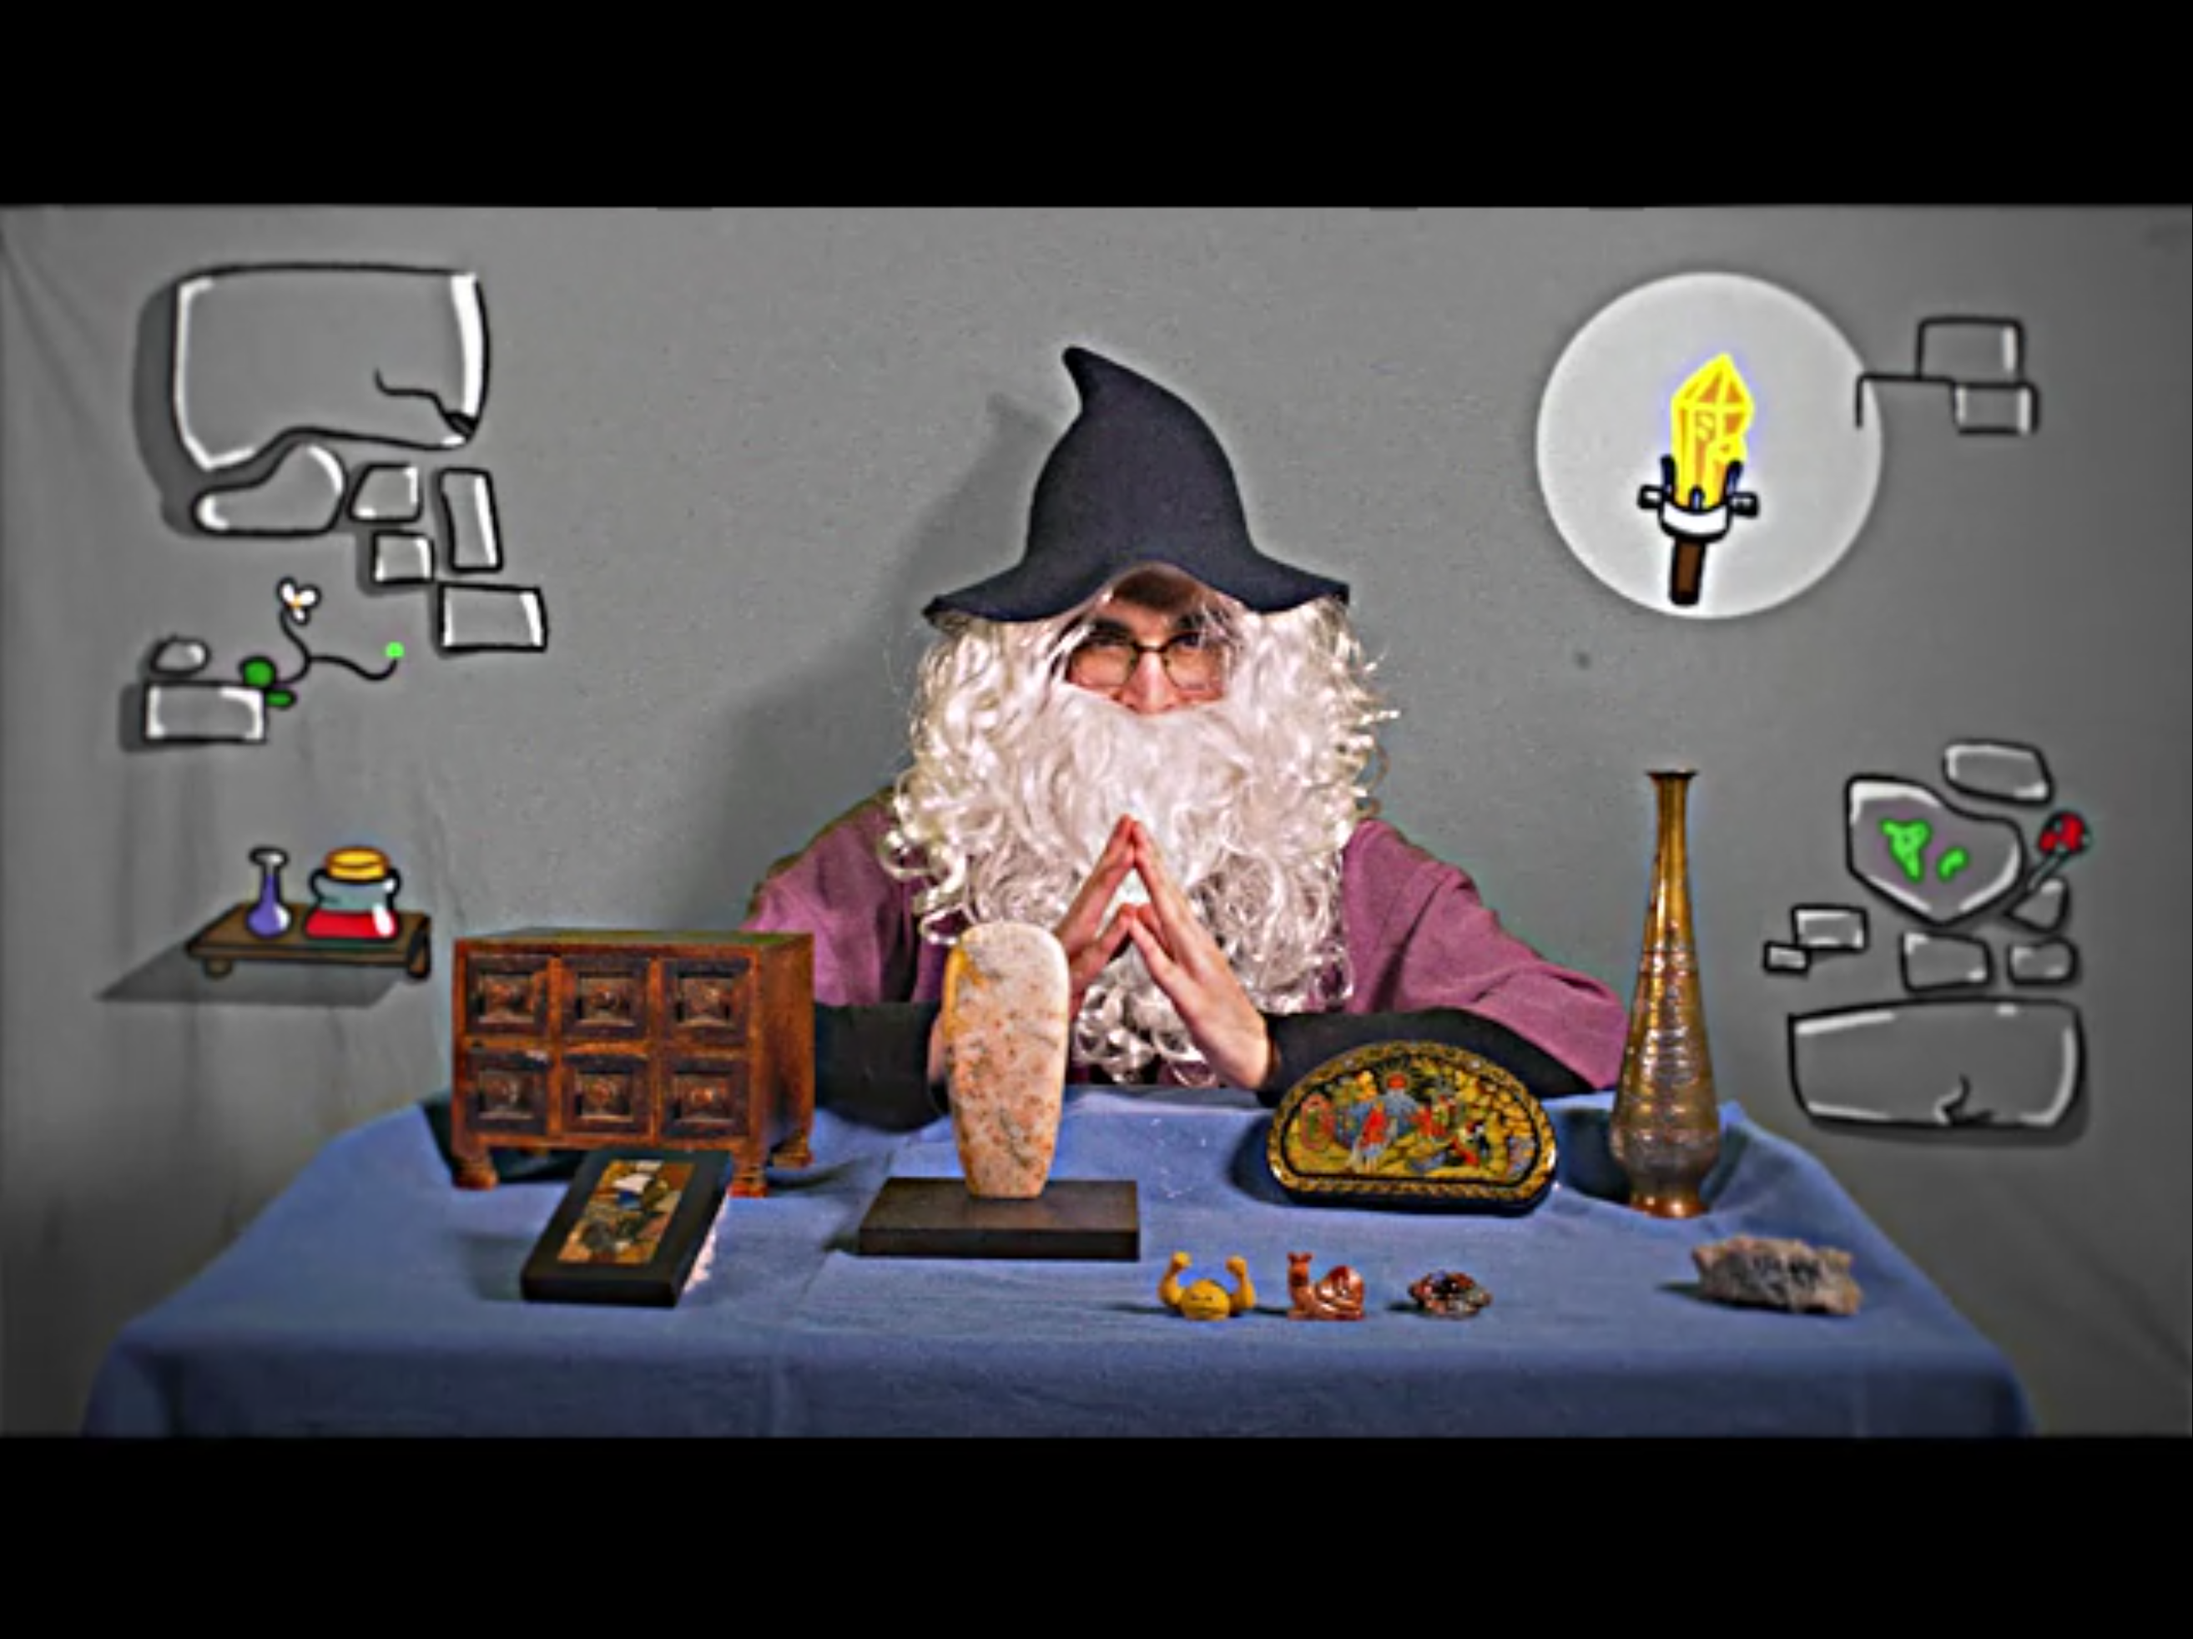
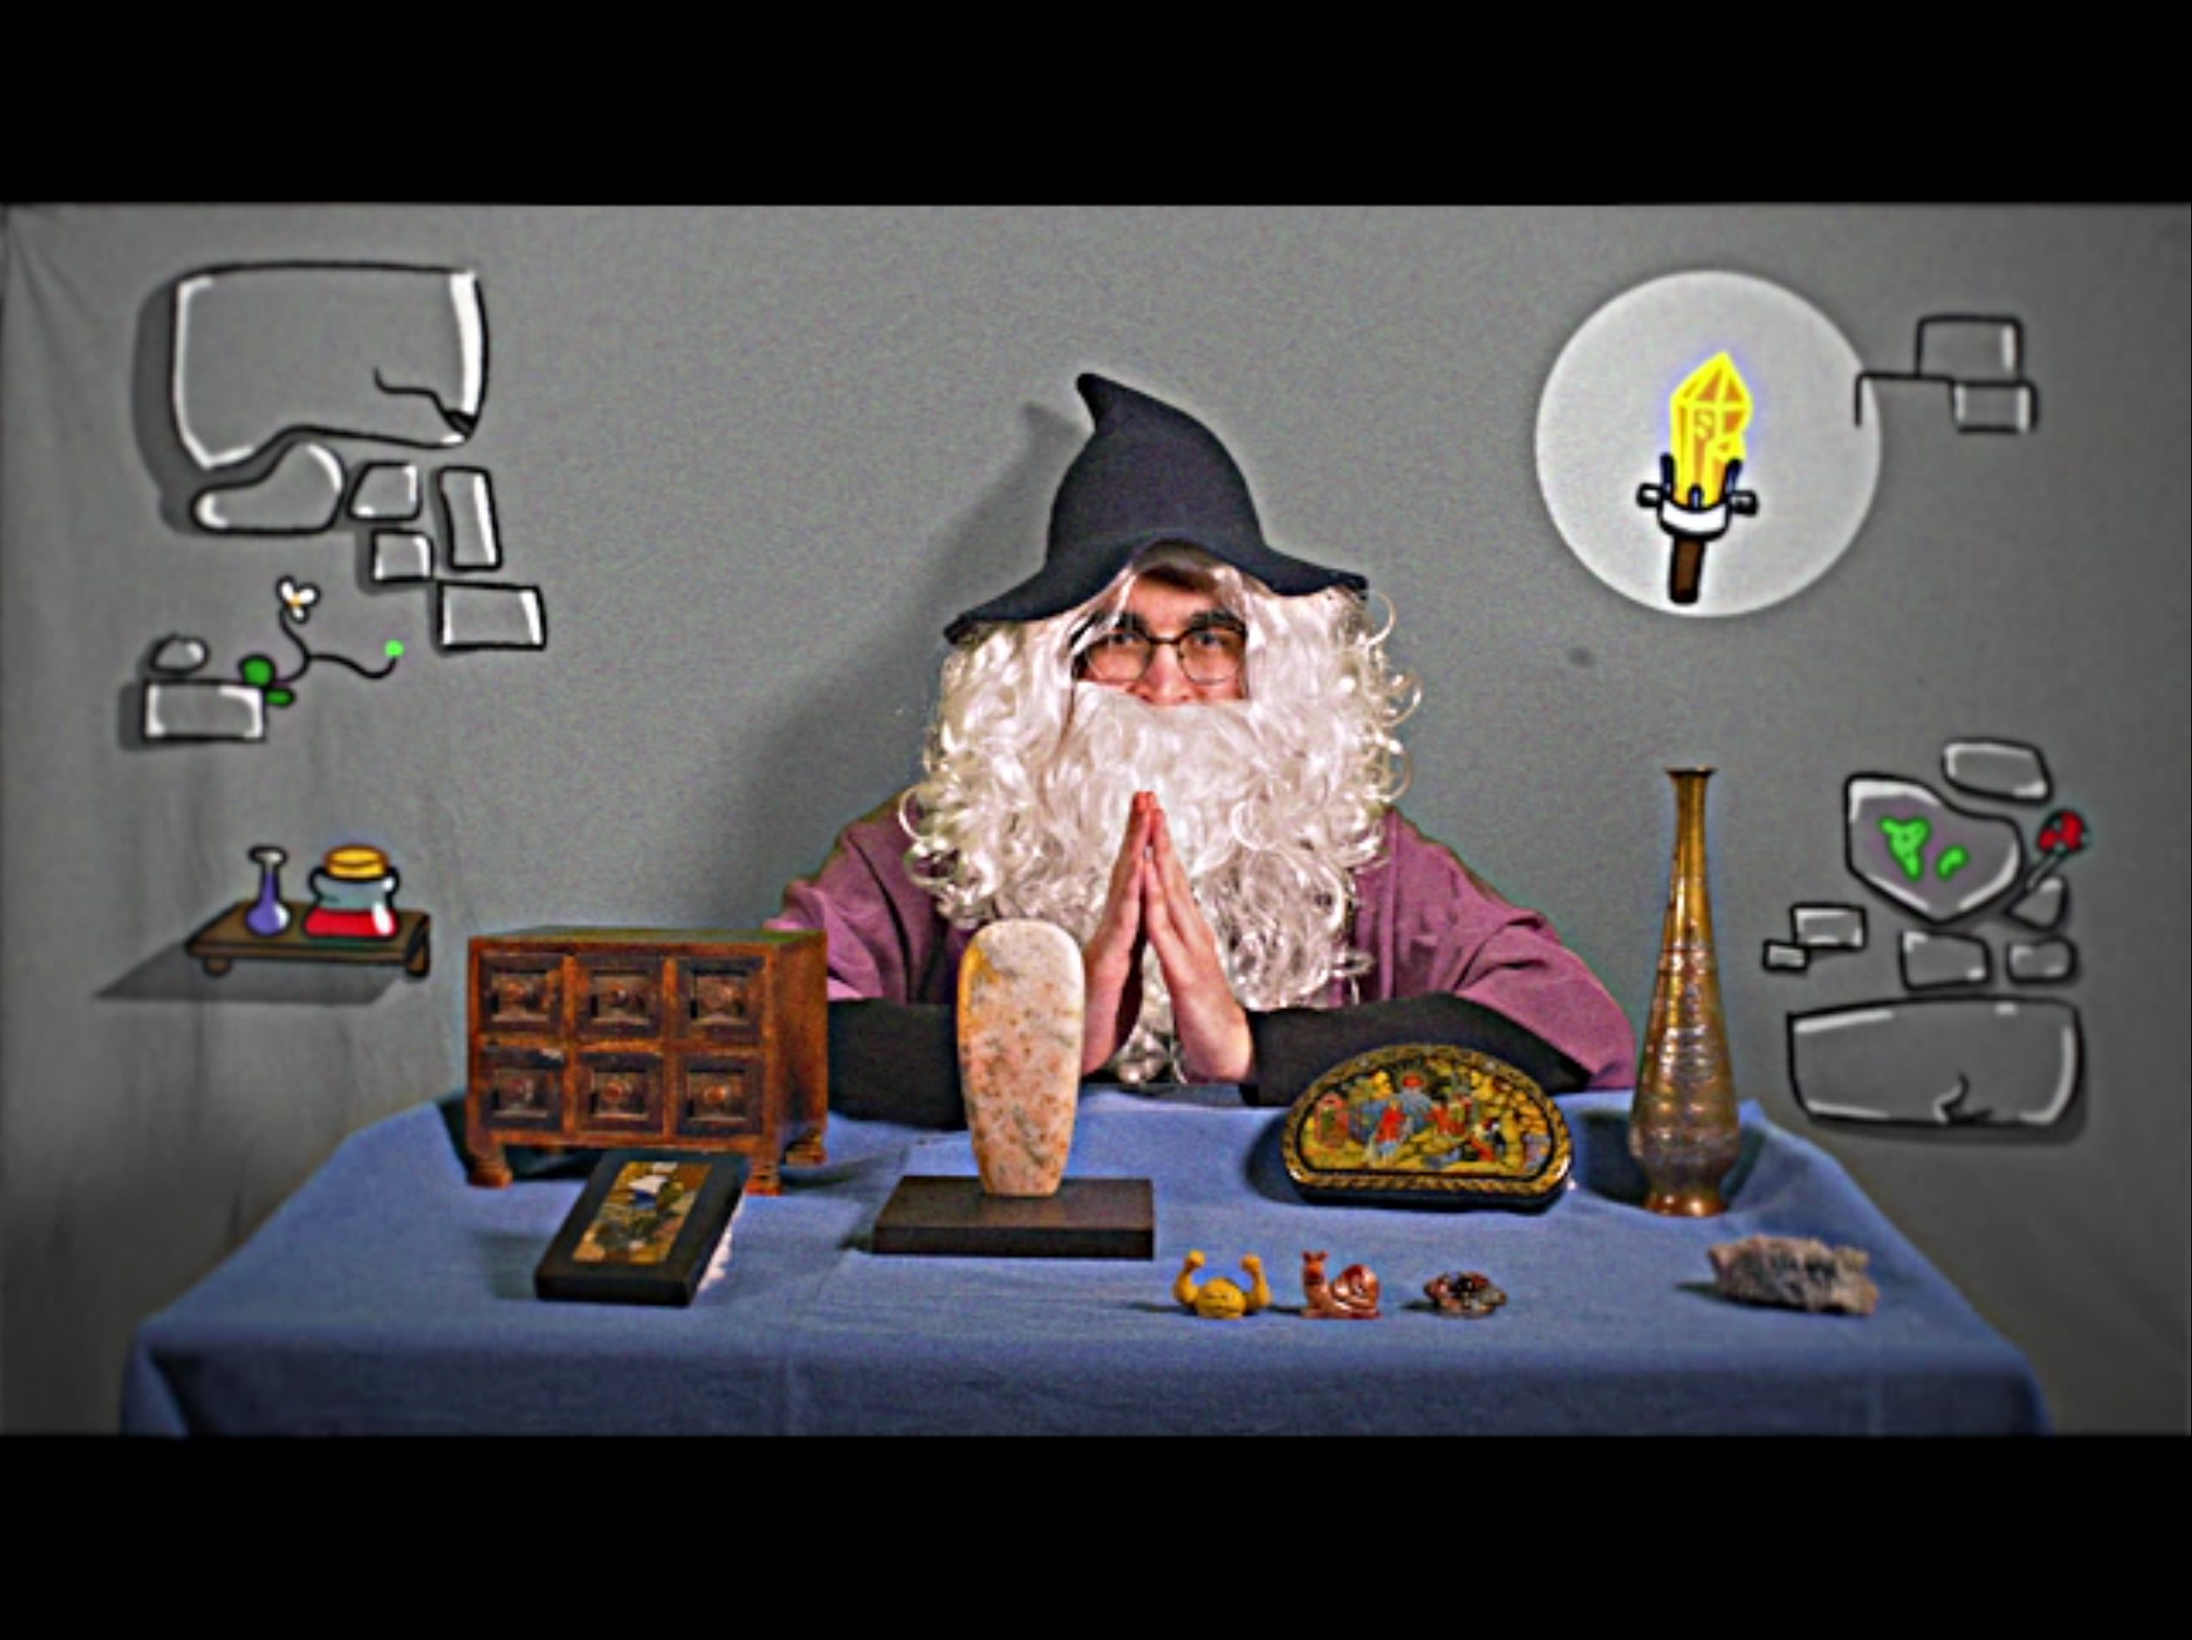
New magic word find methods and hints
Added new ways of finding magic words, added new hints. Removed unneeded assets. Updated wizardVideo event listener. Changed some styling to buttons and dialog in particular.

diff --git a/index.js b/index.js
@@ -11,10 +11,13 @@ const wordFoundAudio = [
     "assets/wizard-audio/word-found5.mp3"
 ];
 let isIdleMode = false;
-
-wizardVideo.addEventListener("ended", (event) => { 
-    if (foundWords==0) {
+ 
+wizardVideo.addEventListener("ended", () => {// checks if video has ended, if user hasn't located the first magic word, it is provided in the arcane scribe, also triggers idle videos  
+    if (foundWords.includes("nabovvat") === false) { 
     progOutputEl.insertAdjacentHTML('beforeend', `<p>The wizard has provided you a small scroll reading "type <span class="astloch-bold">nabovvat</span> into the orb's textbox!"</p>`);
+    }
+    if(isIdleMode) {
+        playIdleVideo();
     }
 })
 
@@ -93,17 +96,10 @@ orbBtnEl.addEventListener('click', ()=> {// allows the user input of the orb for
         orbListEl.insertAdjacentHTML('beforeend', `<p>${(fortunes[(Math.floor(Math.random() * fortunes.length))])}</p>`);// outputs a random fortune from the 'fortunes' array if user input is empty
     }else{
         orbListEl.insertAdjacentHTML('beforeend', `<li>${inputValue}</li>`);// displays the user input's value in the fortune readout
-        orbListEl.insertAdjacentHTML('beforeend', `<p>${(fortunes[(Math.floor(Math.random() * fortunes.length))])}</p>`);// outputs a random fortune from the 'fortunes' array if uder input doesn't match a magic word
+        orbListEl.insertAdjacentHTML('beforeend', `<p>${(fortunes[(Math.floor(Math.random() * fortunes.length))])}</p>`);// outputs a random fortune from the 'fortunes' array if user input doesn't match a magic word
     }
 });
 
-//Jake Hobbs
-vid.addEventListener('ended', () => {//CHECK IF VIDEO HAS ENDED AND TRIGGER IDLE VIDEO
-    if(isIdleMode) {
-        playIdleVideo();
-    }
-}
-);
 //Jake Hobbs
 function playIdleVideo() {//FUNCTION TO PLAY A RANDOM IDLE VIDEO FROM THE 'idleVideoSources' ARRAY, CALLED AFTER WORD FOUND VIDEOS END TO RETURN TO AN IDLE STATE
     const idleVideoSources = 
@@ -140,18 +136,3 @@ function indexLoad() {
     progOutputEl.insertAdjacentHTML('beforeend', `<p>So far you have found the magic words: <span class="astloch-bold">${foundWords}</span><br><br>${8-foundWords.length} Words remain.<br><br></p>`);
     }
 };
-
-//const video = document.getElementById();
-        // const idleVideoSources = 
-        // ["assets/wizard-videos/idle-anim-1.mp4", 
-        //     "assets/wizard-videos/idle-anim-2-short-end.mp4", 
-        //     "assets/wizard-videos/idle-anim-3.mp4", 
-        //     "assets/wizard-videos/idle-anim-4.mp4", 
-        //     "assets/wizard-videos/idle-anim-5.mp4", 
-        //     "assets/wizard-videos/ominous-point.mp4"];
-        // const sourceIndex = Math.floor(Math.random() * idleVideoSources.length);
-        // const source = document.createElement("source");
-        // source.setAttribute("src", idleVideoSources[sourceIndex]);
-        // video.appendChild(source);
-
-// based on: https://stackoverflow.com/questions/63736520/math-random-javascript-with-mp4/63736591#63736591

diff --git a/about.html b/about.html
@@ -88,7 +88,7 @@
 			<p class="kumar-one-outline-regular">Word 2.</p>
 				<ul id="word2HintList"><!-- displays hints for the second word -->
 					<details class="hint-button"><summary><b>hint 1</b></summary>inside a gap that doesn't belong, hidden in not-so plain sight</details>
-					<details class="hint-button"><summary><b>hint 2</b></summary>somewhere on [insert page]</details>
+					<details class="hint-button"><summary><b>hint 2</b></summary>somewhere on 'Robes'</details>
 					<details class="hint-button"><summary><b>hint 3</b></summary>highlight by click and dragging the mouse / your finger</details>
 				</ul>
 				<div id="word2Found"></div><!-- displays the word 'found' via javascript if the associated Magic Word has been inputted by the user -->
@@ -123,9 +123,9 @@
 			<hr>
 			<p class="kumar-one-outline-regular">Word 6.</p>
 				<ul id="word6HintList"><!-- displays hints for the sixth word -->
-					<details class="hint-button"><summary><b>hint 1</b></summary>secrets</details>
-					<details class="hint-button"><summary><b>hint 2</b></summary>secrets</details>
-					<details class="hint-button"><summary><b>hint 3</b></summary>secrets</details>
+					<details class="hint-button"><summary><b>hint 1</b></summary>a humorous getup</details>
+					<details class="hint-button"><summary><b>hint 2</b></summary>found within the fourth of five</details>
+					<details class="hint-button"><summary><b>hint 3</b></summary>an adverb emphasised</details>
 				</ul>
 				<div id="word6Found"></div><!-- displays the word 'found' via javascript if the associated Magic Word has been inputted by the user -->
 				<br>

diff --git a/style.css b/style.css
@@ -171,19 +171,26 @@ footer .green {
   border: none;
 } */
 
-/* Links */
 a {
   color: #e1c165;
   text-decoration: none;
   cursor:
     url(assets/hand-cursor.svg) 16 16,
-    pointer; /* custom cursor, figure out why the opacity is low */
+    pointer; /* custom cursor */
 }
 
 .blue-link {
   color: blue;
   text-decoration: underline;
 }
+
+button {
+  cursor:
+    url(assets/hand-cursor.svg) 16 16,
+    pointer; /* custom cursor */
+}
+
+/* Navigation */
 
 .large-screen-nav {
   display: none; /* Hides menu elements only needed at larger screen sizes */
@@ -377,6 +384,7 @@ h3 {
 .astloch-bold {
   font-family: "Astloch", system-ui;
   font-weight: 700;
+  font-size: 1.4rem;
   font-style: normal;
   color: red;
   animation: colour-shift 7s infinite;
@@ -572,7 +580,7 @@ label {
 
 dialog {
   justify-self: center;
-  margin-top: 200px;
+  margin-top: 30vh;
   max-width: 80%;
   background-color: #c3c3c3;
 }
@@ -584,7 +592,11 @@ dialog .eraseBtn {
 .blog-button {
   color: blue;
   text-decoration: underline;
-  font-size: 1rem; /* styled to the root font size (by default 16px) allows accessible resizing from user */
+  text-align: left;
+  background: none;
+  border: none;
+  padding: 0;
+  font-size: 1.125rem; /* styled to the root font size (by default 16px) allows accessible resizing from user */
 }
 
 /* @media (max-width: 1000px) {

diff --git a/robes.html b/robes.html
@@ -65,7 +65,8 @@
 		</div>
 		<div class="outfit-overview"><!-- allows for grid layout styling to present the text and image contents differently across viewports -->
 			<img alt="A wizard wearing a jester hat and small capelet." src="assets/wizard-images/wizard-outfit4.png">
-			<p>What is 'Jesters privilege'? The answer is their unique ability to tell unsavoury truths even to a king, if wrapped in humour skillfully enough. In that same way, wear the truth. 
+			<p>What is 'Jesters Privilege'? The answer is their unique ability to tell unsavoury truths even to a king, if <button class="blog-button" popovertarget="protectMagicWord">protectively</button> 
+			wrapped in humour skillfully enough. In that same way, wear the truth. 
 			Is not everything a performance? Maybe so, but if you wear this collection with enough panache, any naysayer will have no choice but to laugh with you, not at you.</p>
 		</div>
 		<div class="outfit-overview"><!-- allows for grid layout styling to present the text and image contents differently across viewports -->
@@ -98,6 +99,9 @@
 		</article>
 	</div>
 </main>
+<dialog id="protectMagicWord" popover>
+  <p class="astloch-bold">mohafez</p>
+</dialog>
 	<script src="main.js"></script><!-- adds functionality for checking user progress -->
 </body>
 <!-- End of body -->

diff --git a/index.html b/index.html
@@ -58,7 +58,7 @@
 			<h2 class="nabla">THE WORLD WIDE WIZARD</h2>
 			<p>You can't go wrong with taking a stop at <i>'The Stall That Has It All'</i>. For all manner of whimsies, The Wizard is here to help.</p>
 			<div class="vid-container"><!-- encapsulates the video element and displays a black background to prevent a bright 'flash' as video and image assets are loaded in -->
-			<video id="wizardVideo" poster="assets/vid-poster3.png" controls type="video/mp4" src="assets/wizard-videos/wizard-intro.mp4"><!--  -->
+			<video id="wizardVideo" poster="assets/vid-poster.png" controls type="video/mp4" src="assets/wizard-videos/wizard-intro.mp4"><!--  -->
 			The video element isn't displaying for you. Check if your browser supports it if you would like to enable it!
 			</video>
 			</div>

diff --git a/trinkets.js b/trinkets.js
@@ -87,6 +87,7 @@ function mapCheck(mosaicMapClickHist) {
     }
     if(mosaicFoundIndex == 5){//CHECK IF THE USER HAS COMPLETED THE SEQUENCE
         console.log("mosaic complete");
+        detailViewContent.insertAdjacentHTML('beforeend', `<br><p class="centered-article"><span class="astloch-bold">${lowerMagicWords[4]}</span></p>`);// displays the magic word as a reward for the puzzle 
     }
 }
 // user can currently succeed in 'completing the mosaic' by clicking out of sequence so long as they click each item in order at some point (user can click incorrectly mid-sequence)
